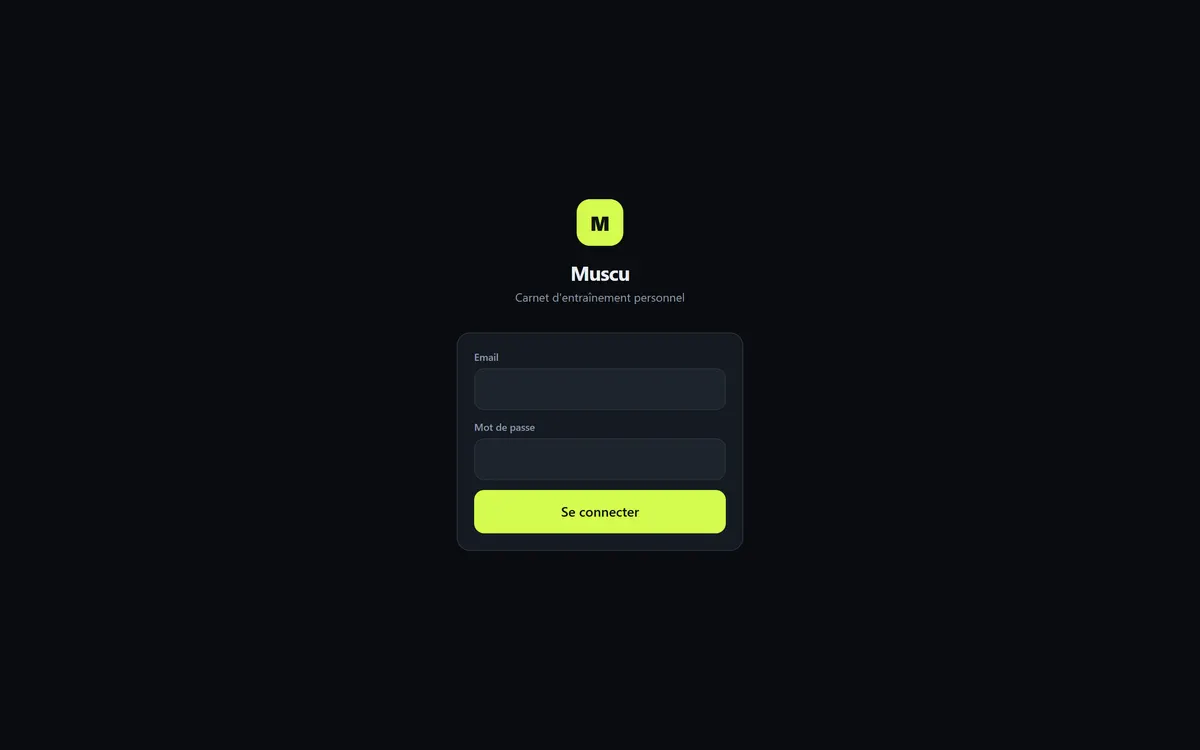
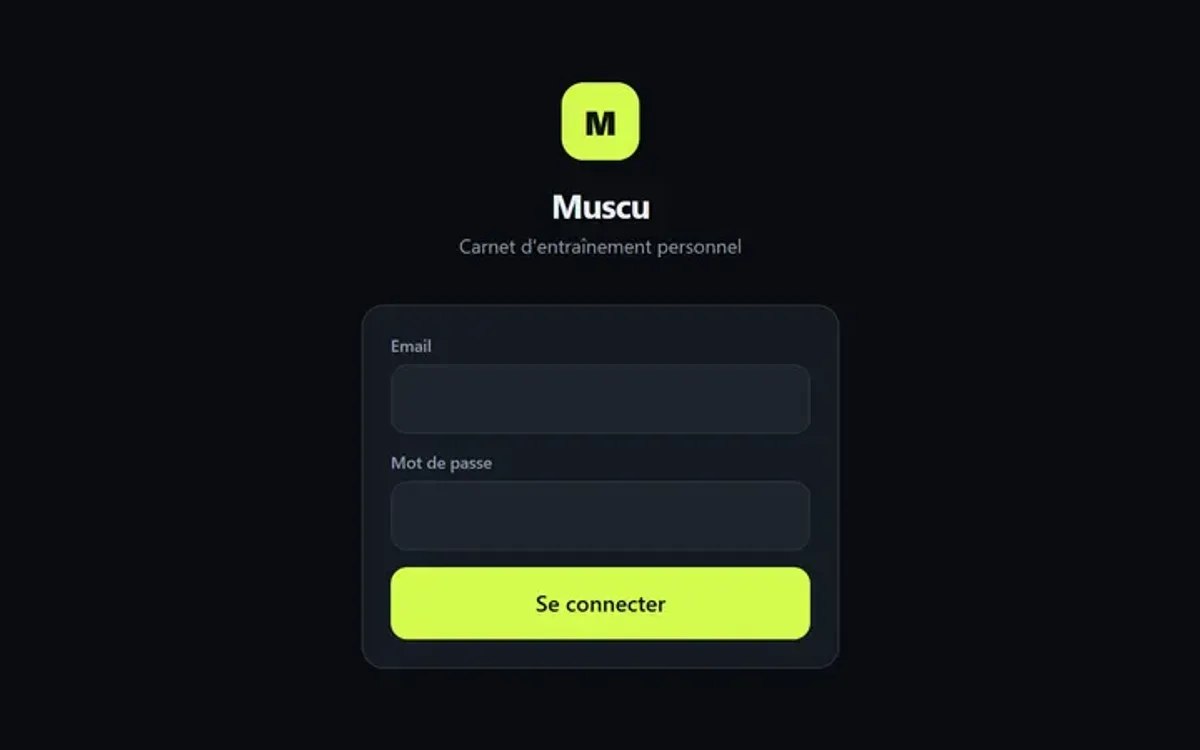
Vignette Muscu recadrée sur l'écran de connexion, anneau de focus des fenêtres retiré (doublon avec la bordure d'accentuation)

diff --git a/styles.css b/styles.css
@@ -207,6 +207,9 @@ a { color: var(--accent); text-decoration-thickness: 1px; text-underline-offset:
 @keyframes winOut { to { opacity: 0; transform: scale(.95) } }
 @keyframes winMin { to { opacity: 0; transform: scale(.7) translateY(24vh) } }
 .os-window.is-focus { border-color: color-mix(in srgb, var(--accent) 45%, var(--border-2)); }
+/* La fenêtre reçoit le focus par script à l'ouverture ; l'anneau ferait doublon
+   avec la bordure d'accentuation ci-dessus, qui joue déjà ce rôle. */
+.os-window:focus, .os-window:focus-visible { outline: none; }
 .os-window.is-max { inset: 0 0 var(--tb) 0 !important; width: auto !important; height: auto !important; border-radius: 0; border-width: 0 0 1px 0; }
 .os-window.is-drag { transition: none; user-select: none; }
 
